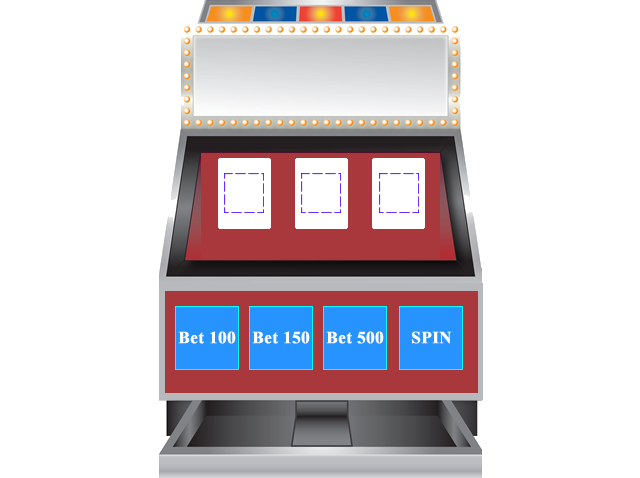
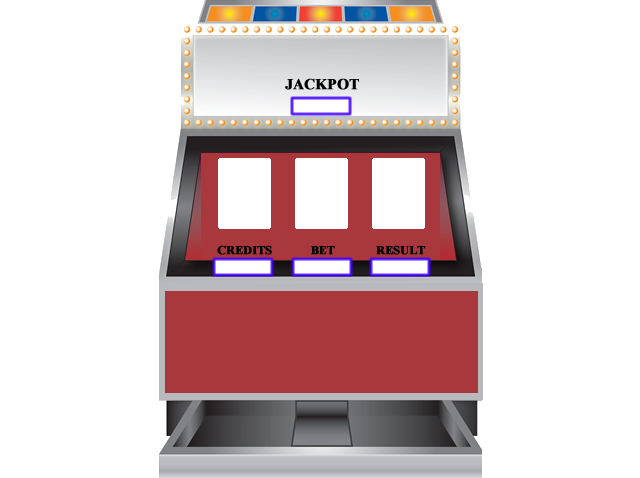
Lables added of jackpot,result,credit,bet

diff --git a/Scripts/scenes/slotmachine.ts b/Scripts/scenes/slotmachine.ts
@@ -7,7 +7,11 @@ module scenes {
         private _Bet150Button: objects.Button;
         private _Bet500Button: objects.Button;
         private _SpinButton: objects.Button;
-        private _reels:createjs.Bitmap[];
+        private _reels: createjs.Bitmap[];
+        private _jackpotText: objects.Label;
+        private _creditText: objects.Label;
+        private _betText: objects.Label;
+        private _resultText: objects.Label;
 
         private _grapes = 0;
         private _bananas = 0;
@@ -61,15 +65,18 @@ module scenes {
             this.addChild(this._SpinButton);
             this._SpinButton.on("click", this._SpinButtonClick, this);
             
-            // Initialize the arrays
-            this._reels=new Array<createjs.Bitmap>();
-            for(var reel:number=0; reel < 3; reel++){
-                
-                this._reels[reel]= new createjs.Bitmap(assets.getResult("Blank"));
-                this._reels[reel].x=223 + (reel * 78);
-                this._reels[reel].y=173;
-                this.addChild(this._reels[reel]);
-               }
+            // add Jackpot text to the scene
+            
+            this._jackpotText=new objects.Label(
+                "0",
+                "15px Times New Roman",
+                "#000000",
+                295,98,false );
+            this.addChild(this._jackpotText);    
+            
+            //Initializa of Array
+            
+            this._initializeBitmapArray();    
                 
             // add this scene to the global stage container
             stage.addChild(this);
@@ -131,6 +138,21 @@ module scenes {
             }
             return betLine;
         }
+
+        private _initializeBitmapArray(): void {
+            // Initialize the arrays
+            this._reels = new Array<createjs.Bitmap>();
+            for (var reel: number = 0; reel < 3; reel++) {
+
+                this._reels[reel] = new createjs.Bitmap(assets.getResult("Blank"));
+                this._reels[reel].x = 223 + (reel * 78);
+                this._reels[reel].y = 173;
+                this.addChild(this._reels[reel]);
+            }
+
+        }
+    
+        
         //EVENT HANDLERS ++++++++++++++++++++
         private _Bet100ButtonClick(event: createjs.MouseEvent): void {
             console.log("bet 100 credited");
@@ -147,14 +169,13 @@ module scenes {
         }
 
         private _SpinButtonClick(event: createjs.MouseEvent): void {
-           // console.log("Spin the reels");
-            var bitmap:string[]=this._spinReels();
-          
-          for(var reel:number=0; reel< 3; reel++)
-          {
-               this._reels[reel].image= assets.getResult(bitmap[reel]);
-          }
-          
+            // console.log("Spin the reels");
+            var bitmap: string[] = this._spinReels();
+
+            for (var reel: number = 0; reel < 3; reel++) {
+                this._reels[reel].image = assets.getResult(bitmap[reel]);
+            }
+
         }
     }
 }

diff --git a/Scripts/scenes/slotmachine.js b/Scripts/scenes/slotmachine.js
@@ -42,14 +42,11 @@ var scenes;
             this._SpinButton = new objects.Button("SpinButton", 399, 306, false);
             this.addChild(this._SpinButton);
             this._SpinButton.on("click", this._SpinButtonClick, this);
-            // Initialize the arrays
-            this._reels = new Array();
-            for (var reel = 0; reel < 3; reel++) {
-                this._reels[reel] = new createjs.Bitmap(assets.getResult("Blank"));
-                this._reels[reel].x = 223 + (reel * 78);
-                this._reels[reel].y = 173;
-                this.addChild(this._reels[reel]);
-            }
+            // add Jackpot text to the scene
+            this._jackpotText = new objects.Label("0", "15px Times New Roman", "#000000", 295, 98, false);
+            this.addChild(this._jackpotText);
+            //Initializa of Array
+            this._initializeBitmapArray();
             // add this scene to the global stage container
             stage.addChild(this);
         };
@@ -104,6 +101,16 @@ var scenes;
                 }
             }
             return betLine;
+        };
+        SlotMachine.prototype._initializeBitmapArray = function () {
+            // Initialize the arrays
+            this._reels = new Array();
+            for (var reel = 0; reel < 3; reel++) {
+                this._reels[reel] = new createjs.Bitmap(assets.getResult("Blank"));
+                this._reels[reel].x = 223 + (reel * 78);
+                this._reels[reel].y = 173;
+                this.addChild(this._reels[reel]);
+            }
         };
         //EVENT HANDLERS ++++++++++++++++++++
         SlotMachine.prototype._Bet100ButtonClick = function (event) {

diff --git a/Scripts/objects/label.ts b/Scripts/objects/label.ts
@@ -2,10 +2,16 @@
     // LABEL CLASS ++++++++++++++++++++++++++++++++++++++++++++++
     export class Label extends createjs.Text {
         // CONSTRUCTOR METHOD +++++++++++++++++++++++++++++++++++
-        constructor(labelString: string, labelFont: string, labelColour: string, x: number, y: number) {
+        constructor(labelString: string, labelFont: string, labelColour: string, x: number, y: number, isCentered:boolean) {
             super(labelString, labelFont, labelColour);
+            
+            if(isCentered)
+            {
             this.regX = this.getBounds().width * 0.5;
             this.regY = this.getBounds().height * 0.5;
+                
+            }
+            
             this.x = x;
             this.y = y;
         }

diff --git a/Scripts/scenes/menu.js b/Scripts/scenes/menu.js
@@ -19,7 +19,7 @@ var scenes;
             this._backgroundImage = new createjs.Bitmap("../../Assets/images/WelcomeScreen.png");
             this.addChild(this._backgroundImage);
             // add the WELCOME Label to the MENU scene
-            this._welcomeLabel = new objects.Label("SLOT MACHINE", "60px Consolas", "#000000", config.Screen.CENTER_X, config.Screen.CENTER_Y);
+            this._welcomeLabel = new objects.Label("SLOT MACHINE", "60px Consolas", "#000000", config.Screen.CENTER_X, config.Screen.CENTER_Y, true);
             this.addChild(this._welcomeLabel);
             // add the START button to the MENU scene
             this._startButton = new objects.Button("StartButton", config.Screen.CENTER_X, config.Screen.CENTER_Y + 80, true);

diff --git a/Scripts/objects/label.js b/Scripts/objects/label.js
@@ -9,10 +9,12 @@ var objects;
     var Label = (function (_super) {
         __extends(Label, _super);
         // CONSTRUCTOR METHOD +++++++++++++++++++++++++++++++++++
-        function Label(labelString, labelFont, labelColour, x, y) {
+        function Label(labelString, labelFont, labelColour, x, y, isCentered) {
             _super.call(this, labelString, labelFont, labelColour);
-            this.regX = this.getBounds().width * 0.5;
-            this.regY = this.getBounds().height * 0.5;
+            if (isCentered) {
+                this.regX = this.getBounds().width * 0.5;
+                this.regY = this.getBounds().height * 0.5;
+            }
             this.x = x;
             this.y = y;
         }

diff --git a/Scripts/scenes/gameover.js b/Scripts/scenes/gameover.js
@@ -16,7 +16,7 @@ var scenes;
         // Start Method
         GameOver.prototype.start = function () {
             // add the WELCOME Label to the MENU scene
-            this._gameOverLabel = new objects.Label("GAME OVER", "60px Consolas", "#000000", config.Screen.CENTER_X, config.Screen.CENTER_Y);
+            this._gameOverLabel = new objects.Label("GAME OVER", "60px Consolas", "#000000", config.Screen.CENTER_X, config.Screen.CENTER_Y, true);
             this.addChild(this._gameOverLabel);
             // add the START button to the MENU scene
             this._startOverButton = new objects.Button("StartButton", config.Screen.CENTER_X, config.Screen.CENTER_Y + 80, true);

diff --git a/Scripts/scenes/gameover.ts b/Scripts/scenes/gameover.ts
@@ -21,7 +21,7 @@ module scenes {
                 "60px Consolas", 
                 "#000000", 
                 config.Screen.CENTER_X, 
-                config.Screen.CENTER_Y);
+                config.Screen.CENTER_Y,true);
             this.addChild(this._gameOverLabel);      
                    
             // add the START button to the MENU scene

diff --git a/Scripts/scenes/menu.ts b/Scripts/scenes/menu.ts
@@ -27,7 +27,7 @@ module scenes {
                 "60px Consolas",
                 "#000000",
                 config.Screen.CENTER_X,
-                config.Screen.CENTER_Y);
+                config.Screen.CENTER_Y,true);
             this.addChild(this._welcomeLabel);
                    
             // add the START button to the MENU scene
